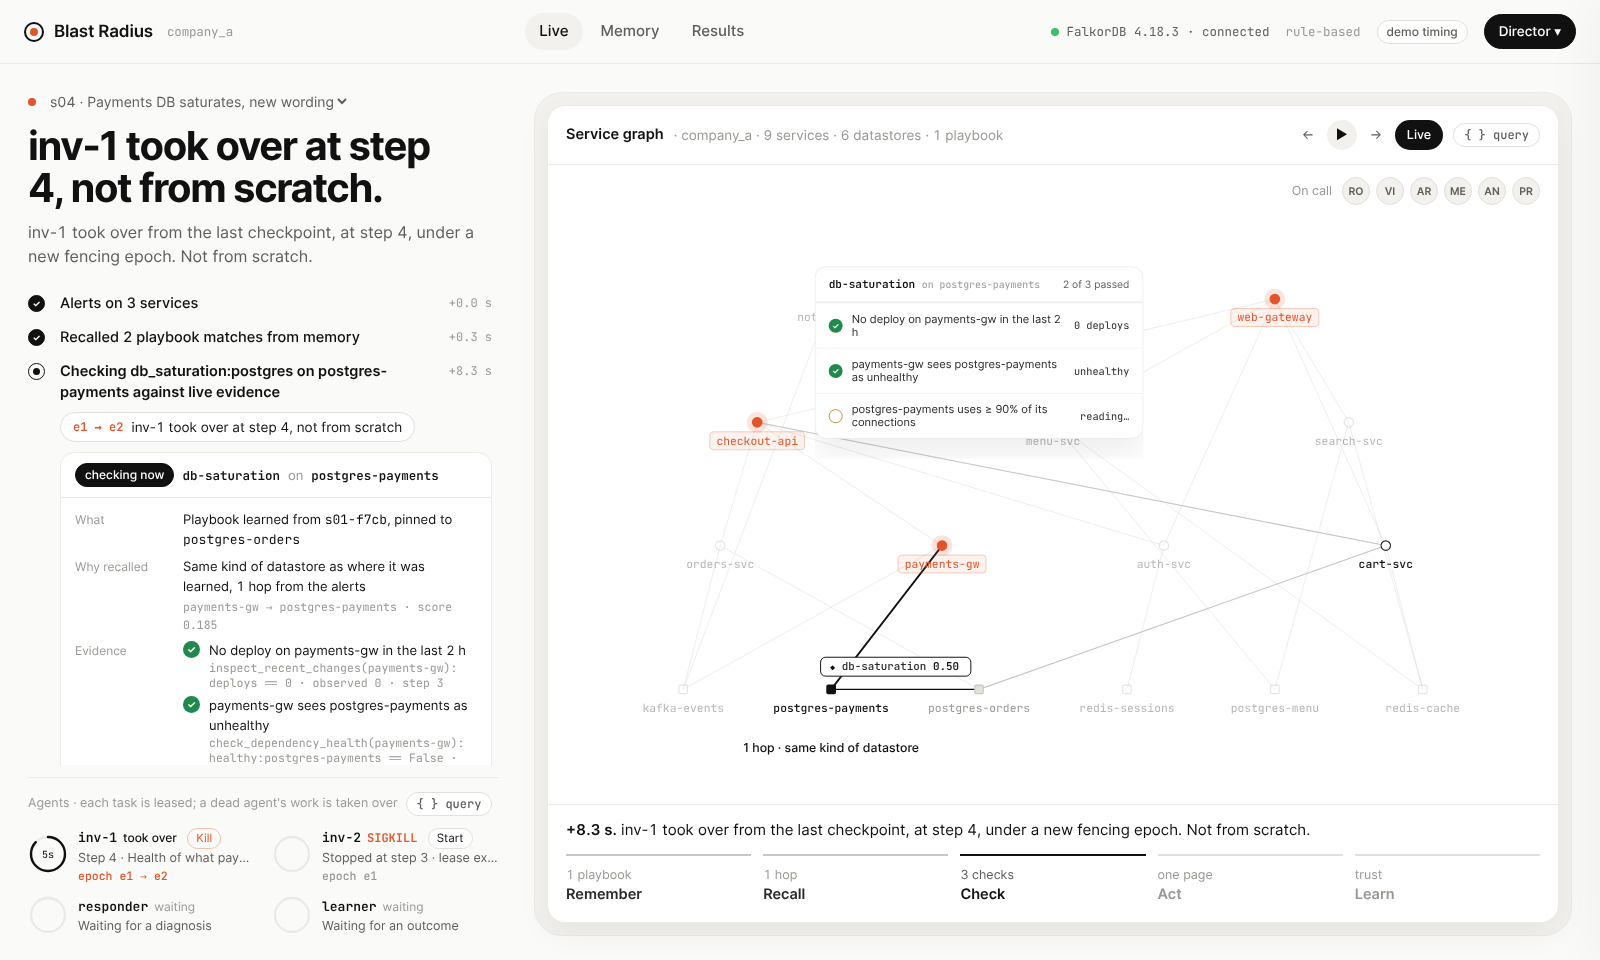
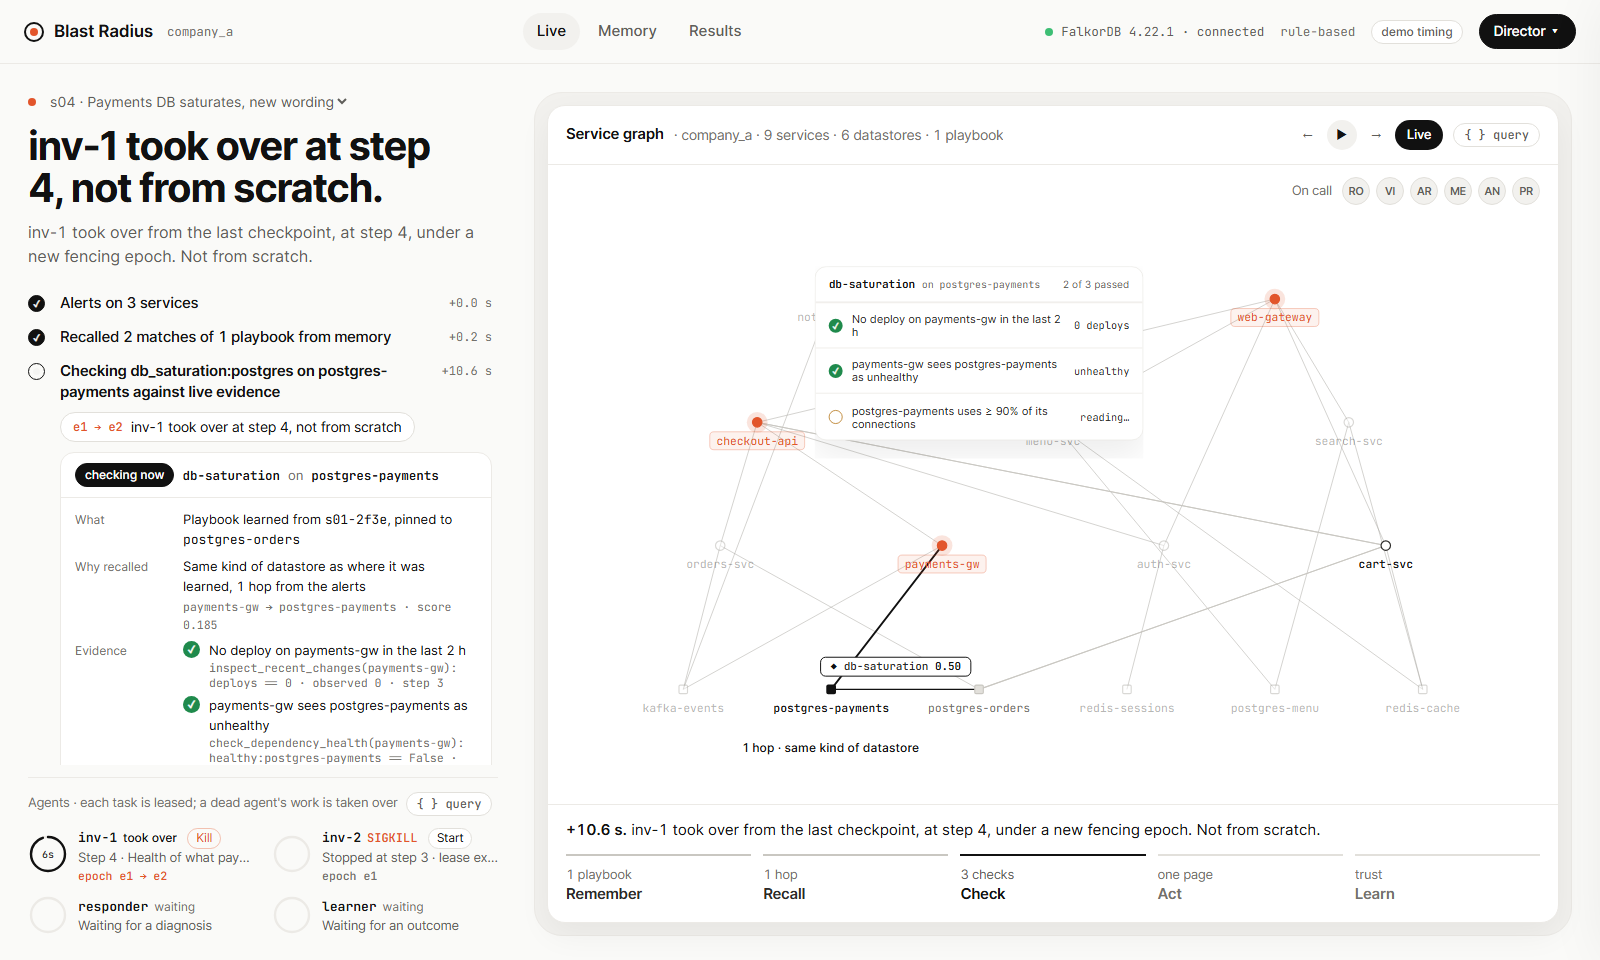
README GIF and fresh screenshots; briefing covers today's changes
- docs/img/demo.gif: s04 captured live (recalled by kind, checked, inv-2
  killed after step 3, takeover at step 4, one ticket, trust 0.50 -> 0.67),
  now at the top of the README.
- ui-takeover.png, ui-lens-ruled-out.png and landing.png re-taken from the
  current UI (FalkorDB 4.22.1, the new wording and the SPpaths line); the
  old ones showed 4.18.3 and 'Enter the war room'.
- TEAM-BRIEFING section 13: every change from the audit in plain words, and
  the new judge questions, so the team can explain all of it (rule 12).
- Submission text: graph algorithms as agent tools.

diff --git a/docs/TEAM-BRIEFING.md b/docs/TEAM-BRIEFING.md
@@ -148,3 +148,28 @@ Say the caveats before they're asked: synthetic benchmark; no accuracy gain beca
 3. Arm the kill, click **s04**, and narrate section 8 while it happens.
 4. Click **s05** and explain the failed precondition (section 5).
 5. Plant the wrong playbook, break `redis-cache` three times, and explain the trust numbers (section 6).
+
+## 13. What changed on Oct 18 (audit fixes): know these too
+
+An audit of the repo, with Claude Code, led to the changes in pull request #1. Rule 12 means each of you must be able to explain them, so here they are in plain words.
+
+| Change | What to say | Where |
+|---|---|---|
+| **"No" really means no** | The agent's reading of Priya's message is saved at once, but if she doesn't say a plain yes, that reading is **closed** (`valid_to`), never deleted, and the agent says "Not saved." An unconfirmed reading never overrides a preference she approved. The rule parser now understands "do not paste raw logs, just a summary" and curly apostrophes. | `agents/responder.py`, `memory/queries/fact_retract.cypher`, `chat/preferences.py` |
+| **Trust is summed per memory** | One decision can use the same playbook twice (pinned on postgres-orders, and by kind on postgres-payments). The trust query now sums the verdicts per memory before writing. Row by row, FalkorDB's SET visibility (our finding #3) could drop a "helped". | `memory/queries/feedback.cypher` |
+| **A stale worker stops** | The responder checks its lease before the review and before war-room writes. If a send comes back `already_done`, it checks it still owns the task; if not, it stops. | `agents/responder.py` |
+| **Graph algorithms as tools (Track 01)** | `rank_suspects` breaks ties with **FalkorDB `algo.pageRank`** over `DEPENDS_ON`: shared dependencies score higher. `explain_path` uses **`algo.SPpaths`** for the shortest path from the alerts to a node; the Memory Lens shows it for kind-transferred playbooks. Both are served over MCP (nine tools), but the benchmark's investigator keeps its seven, so the frozen results stay comparable. | `tools/queries/rank_suspects.cypher`, `explain_path.cypher` |
+| **Honest eval numbers** | Each arm holds 3 playbooks, so "top 5" is a small pool. Graph recall has the right one **first 29%**, top-3 62%, top-5 100%; text: 10% / 29% / 48% (deterministic run). The 71% saving comes almost entirely from the 20 incidents where a memory applied; on cold ones graph memory makes fewer model calls but more tool calls. The simulator's evidence is clean, so this benchmark measures cost, not diagnostic ability. | README "Results", `eval/results/2026-10-18-rule-based-ranked/` |
+| **When steps are capped** | `--max-steps 8`: no memory 30/30, graph 14/30. Checking memories that don't apply pushes cold incidents over budget, and a failed incident teaches nothing. Next fix: batch the checks, and learn from the engineer when the agent fails. | README "Limits" |
+| **Duplicates that could fail** | The bench now counts duplicate sends the intent key absorbed, not only Action nodes (which `MERGE` caps at one). With a lease expired every 5 ms (7,690 times in 2 minutes): 0 duplicates. | `bench/load.py`, `bench/results/load-2026-10-18*.json` |
+| **Live, read-only demo** | `PUBLIC_MODE=1`: every POST refused, the story plays itself (s01 → s04 with a real kill → s05), model off, graph reset on start. Locally, POSTs from other sites are refused and only `ALLOWED_HOSTS` are answered. | `docs/DEPLOY.md`, `web/app.py` |
+| **Runs on Windows** | Kill uses `Popen.kill()` (Windows has no SIGKILL); the test double uses POSIX paths; files are read as UTF-8. | `web/supervisor.py`, `tests/graph_double.py` |
+
+New judge questions:
+
+| Question | Answer |
+|---|---|
+| "What if the engineer says no to the read-back?" | "The agent's reading is closed with `valid_to`, kept as history, and the next incident uses the default. Try it." |
+| "Your recall@5 is 100%, but out of how many?" | "About 5 candidates from 3 playbooks. Ranked, graph recall is first 29% of the time and top-3 62%; text is 10% and 29%. Every candidate is checked, which is why nothing misled." |
+| "Can memory make you slower?" | "On cold incidents, yes: about 2 more tool calls, though fewer model calls. Capped at 8 steps, that costs accuracy (14/30 vs 30/30). We measured it and wrote it down; batching the checks is next." |
+| "Where are FalkorDB's graph algorithms?" | "`algo.pageRank` ranks suspects, `algo.SPpaths` explains paths; both are tools over MCP and in the UI's query drawer." |

diff --git a/README.md b/README.md
@@ -14,9 +14,9 @@ On-call agents that turn every confirmed fix into a playbook pinned to the faili
 
 These come from a synthetic company (15 nodes, three failure families) in which the model already solves every incident from scratch, so here memory buys **cost, not accuracy**. The caveats are spelled out in [Results](#results) and [Limits](#limits-and-what-didnt-work).
 
-![Mission control during the takeover: inv-2 was killed after step 3, inv-1 took over at step 4 under epoch 2, and the playbook learned from an earlier incident was recalled one hop from the alerts and is being checked against live evidence](docs/img/ui-takeover.png)
+![Mission control playing s04 live: the playbook learned on postgres-orders is recalled for postgres-payments and checked against evidence; the investigator is killed after step 3, its lease drains, the other worker takes over at step 4, one ticket goes out, and the playbook's trust goes from 0.50 to 0.67](docs/img/demo.gif)
 
-*Mission control, live (deterministic planner, demo timing): inv-2 was killed after step 3 and inv-1 took over at step 4. The playbook learned on `postgres-orders` was recalled for `postgres-payments` (one hop, same kind of datastore) and is being checked against live evidence. Every element is read from FalkorDB.*
+*s04, captured live (deterministic planner, demo timing). The playbook is recalled by kind and checked against evidence. inv-2 is killed after step 3, and inv-1 takes over at step 4, not from scratch. One ticket goes out, and trust moves 0.50 → 0.67. Every element is read from FalkorDB; the still frame is [`docs/img/ui-takeover.png`](docs/img/ui-takeover.png).*
 
 ### The problem
 

diff --git a/docs/SUBMISSION.md b/docs/SUBMISSION.md
@@ -48,6 +48,7 @@ FalkorDB is the only store: the company, incidents, the agents' memory, the task
 4. **Who to page right now.** A time-valid two-hop query (service → owning team → on-call person), and deploy history as `(:Person)-[:AUTHORED]->(:Change)-[:MODIFIED]->(:Service)`.
 5. **Tenant isolation.** One graph per company, chosen from trusted config; no tool takes a graph name.
 6. **Persistence.** RDB snapshots; the acceptance test restarts FalkorDB, then SIGKILLs a worker, and the replacement resumes at the next step.
+7. **Graph algorithms as agent tools.** `algo.pageRank` over `DEPENDS_ON` ranks root-cause suspects (shared dependencies first); `algo.SPpaths` explains how the alerts reach a node, shown in the Memory Lens. Both are served over MCP with the agents' seven tools.
 
 All 76 queries are `.cypher` files indexed in `docs/QUERIES.md`, and the UI shows the Cypher behind every panel. We also found three FalkorDB issues, with reproductions in `docs/FALKORDB-FINDINGS.md`.
 
